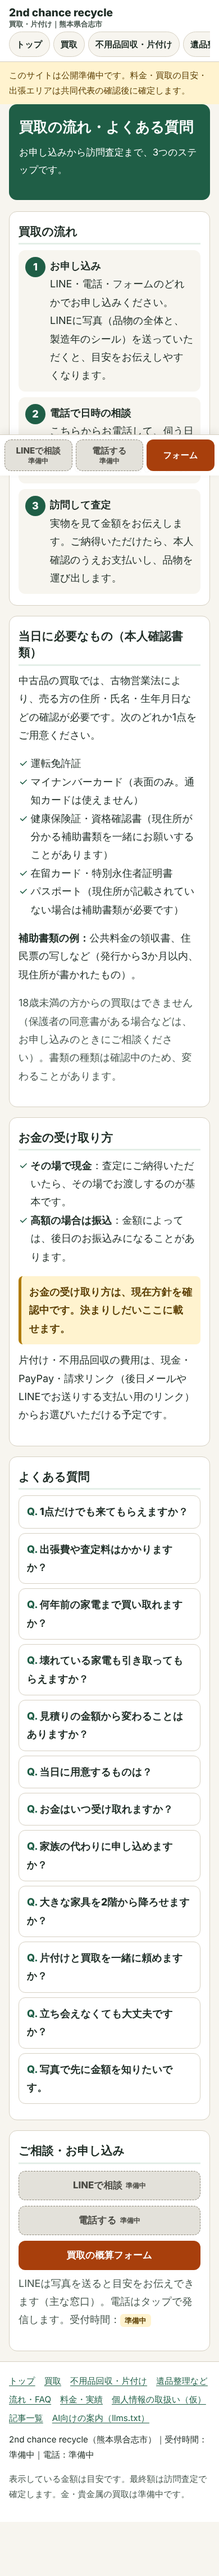
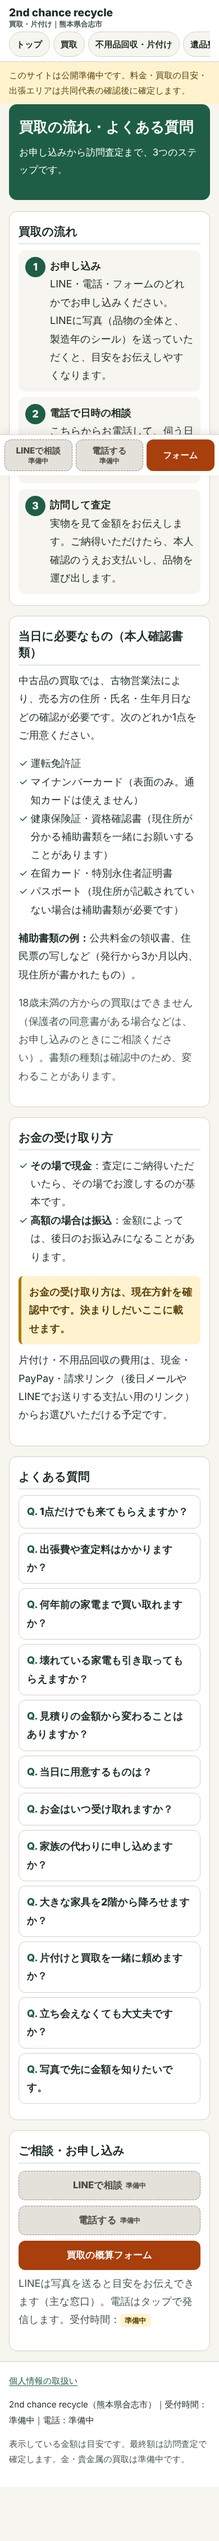
ありがとうエアコンの予約フォームへの送客ボタン（紹介番号は設定1か所）

Changed region(s): [[0.0308, 0.0, 0.9846, 0.9933], [0.8923, 0.6829, 0.9231, 0.714], [0.8923, 0.5898, 0.9231, 0.6208]]

diff --git a/seiri/index.html b/seiri/index.html
@@ -186,7 +186,9 @@
   </ul>
   <h3>このお客様がよく一緒に頼むこと</h3>
   <ul class="related" style="list-style:none;padding:0;margin:0">
-    <li><a href="#" aria-disabled="true"><b>エアコン取外し</b><br><small>準備中</small></a></li>
+<!--build:aircon-item-->
+<li><a href="https://miumiumiu4.github.io/arigatou-booking/" target="_blank" rel="noopener"><b>エアコンクリーニング・取付取外しの予約（ありがとうエアコン）</b><br><small>提携店のページが開きます</small></a></li>
+<!--/build:aircon-item-->
     <li><a href="#" aria-disabled="true"><b>ハウスクリーニング</b><br><small>準備中</small></a></li>
     <li><a href="#" aria-disabled="true"><b>不動産の相談</b><br><small>準備中</small></a></li>
   </ul>
@@ -203,7 +205,9 @@
   </ul>
   <h3>このお客様がよく一緒に頼むこと</h3>
   <ul class="related" style="list-style:none;padding:0;margin:0">
-    <li><a href="#" aria-disabled="true"><b>エアコン取外し</b><br><small>準備中</small></a></li>
+<!--build:aircon-item-->
+<li><a href="https://miumiumiu4.github.io/arigatou-booking/" target="_blank" rel="noopener"><b>エアコンクリーニング・取付取外しの予約（ありがとうエアコン）</b><br><small>提携店のページが開きます</small></a></li>
+<!--/build:aircon-item-->
     <li><a href="#" aria-disabled="true"><b>ハウスクリーニング</b><br><small>準備中</small></a></li>
     <li><a href="#" aria-disabled="true"><b>不動産の相談</b><br><small>準備中</small></a></li>
   </ul>
@@ -220,7 +224,9 @@
   </ul>
   <h3>このお客様がよく一緒に頼むこと</h3>
   <ul class="related" style="list-style:none;padding:0;margin:0">
-    <li><a href="#" aria-disabled="true"><b>エアコン取外し</b><br><small>準備中</small></a></li>
+<!--build:aircon-item-->
+<li><a href="https://miumiumiu4.github.io/arigatou-booking/" target="_blank" rel="noopener"><b>エアコンクリーニング・取付取外しの予約（ありがとうエアコン）</b><br><small>提携店のページが開きます</small></a></li>
+<!--/build:aircon-item-->
     <li><a href="#" aria-disabled="true"><b>ハウスクリーニング</b><br><small>準備中</small></a></li>
     <li><a href="#" aria-disabled="true"><b>不動産の相談</b><br><small>準備中</small></a></li>
   </ul>
@@ -237,7 +243,9 @@
   </ul>
   <h3>このお客様がよく一緒に頼むこと</h3>
   <ul class="related" style="list-style:none;padding:0;margin:0">
-    <li><a href="#" aria-disabled="true"><b>エアコン取外し</b><br><small>準備中</small></a></li>
+<!--build:aircon-item-->
+<li><a href="https://miumiumiu4.github.io/arigatou-booking/" target="_blank" rel="noopener"><b>エアコンクリーニング・取付取外しの予約（ありがとうエアコン）</b><br><small>提携店のページが開きます</small></a></li>
+<!--/build:aircon-item-->
     <li><a href="#" aria-disabled="true"><b>ハウスクリーニング</b><br><small>準備中</small></a></li>
     <li><a href="#" aria-disabled="true"><b>不動産の相談</b><br><small>準備中</small></a></li>
   </ul>

diff --git a/js/config.js b/js/config.js
@@ -2,6 +2,7 @@
 // 電話番号・LINE の URL・GAS の URL はリポジトリに書かない（秘密 grep が止める）。
 // 公開時は GitHub の Settings → Secrets and variables → Actions → Variables に
 //   CFG_SITE_URL / CFG_LINE_URL / CFG_TEL / CFG_GAS_URL / CFG_HOURS / CFG_OPENING_HOURS_SPEC
+//   CFG_AIRCON_REF_PARAM / CFG_AIRCON_REF_CODE
 // を入れると、tools/build.mjs --out が公開用の写しにだけ差し込む（README「設定手順」）。
 export const CONFIG = {
   SITE_NAME: "2nd chance recycle",
@@ -12,5 +13,11 @@ export const CONFIG = {
   AREA_CENTER: "熊本県合志市",
   HOURS: "",                 // 人向けの表示。例の形：9:00〜18:00（日曜定休）
   OPENING_HOURS_SPEC: "",    // 任意。schema.org の形。例の形：Mo-Sa 09:00-18:00
+  // ありがとうエアコン（提携店）の予約フォームへの送客。公開URL（秘密ではない）。
+  // CODE が空のあいだはパラメータ無しの素のURLでリンクする（ボタンは出す）。
+  // 今は紹介ノートの紹介番号を ref で付ける。12月の凍結明けに partner＋会社番号（C0xx）へ差し替え。
+  AIRCON_BOOKING_URL: "https://miumiumiu4.github.io/arigatou-booking/",
+  AIRCON_REF_PARAM: "ref",   // 12月に "partner" へ
+  AIRCON_REF_CODE: "",       // 紹介番号（12月から会社番号）。空なら付けない
   OPENING_NOTE: "このサイトは公開準備中です。料金・買取の目安・出張エリアは共同代表の確認後に確定します。"
 };

diff --git a/kataduke/index.html b/kataduke/index.html
@@ -170,6 +170,15 @@
   <p class="callout-warn">買取見込み額は目安。最終額は訪問査定で確定し、お会計も変わります。</p>
 </section>
 
+<section class="section" aria-labelledby="h-aircon">
+  <h2 id="h-aircon">片付けの後のエアコン</h2>
+  <p>空いたお部屋のエアコンのクリーニングや、引っ越し・解体に合わせた取付・取外しは、提携店の「ありがとうエアコン」で予約できます。</p>
+<!--build:aircon-link-->
+<p><a class="btn btn-ghost" href="https://miumiumiu4.github.io/arigatou-booking/" target="_blank" rel="noopener">エアコンクリーニング・取付取外しの予約（ありがとうエアコン）</a></p>
+<p class="muted" style="margin-top:6px">提携店のページが開きます</p>
+<!--/build:aircon-link-->
+</section>
+
 <section class="section" aria-labelledby="h-form-bc">
   <span id="form-b" class="anchor"></span><span id="form-c" class="anchor"></span>
   <h2 id="h-form-bc">概算フォーム（不用品回収／片付け）</h2>

diff --git a/index.html b/index.html
@@ -239,6 +239,9 @@
     <li><a href="kataduke/"><b>不用品回収・片付け</b><br><small>量の区分・間取り別の目安と概算フォーム</small></a></li>
     <li><a href="seiri/"><b>遺品整理・生前整理</b><br><small>ゴミ屋敷・空き家の片付けも</small></a></li>
     <li><a href="flow/#faq"><b>よくある質問</b><br><small>出張費・年式・当日のことなど</small></a></li>
+<!--build:aircon-card-->
+<li><a href="https://miumiumiu4.github.io/arigatou-booking/" target="_blank" rel="noopener"><b>エアコンのクリーニング・取付取外し</b><br><small>ありがとうエアコンの予約（提携店のページが開きます）</small></a></li>
+<!--/build:aircon-card-->
   </ul>
 </section>
 <section class="section" aria-labelledby="h-posts">

diff --git a/README.md b/README.md
@@ -14,7 +14,8 @@
 | `privacy/` | 個人情報の取扱い（**仮**。オーナー確定前） |
 | `404.html` | 見つからないページ |
 | `css/site.css` | 見た目（モバイル優先・文字大きめ・コントラスト 4.5 以上） |
-| `js/config.js` | 設定 1か所（サイト名・URL・LINE・電話・GAS・営業時間） |
+| `js/config.js` | 設定 1か所（サイト名・URL・LINE・電話・GAS・営業時間・エアコン送客） |
+| `tools/aircon.mjs` | ありがとうエアコンの予約フォームへのリンク（紹介番号のパラメータ）を作る純粋関数 |
 | `js/quote-core.js` | 概算の式（純粋関数）。画面・GAS・AI 向け API が同じ式を使う |
 | `js/form.js` | フォームの画面（入力→確認→送信→受付番号）。フォームが見えたら固定バーの上段に概算パネル |
 | `js/estimate-text.js` | 概算の金額の言い方（純粋関数）。概算の箱と固定バーの概算パネルが同じ文字列を使う |
@@ -62,7 +63,20 @@ npm test               # 全部緑になってからコミット
 | `OPENING_HOURS_SPEC` | 任意。schema.org の形（例の形 `Mo-Sa 09:00-18:00`） | JSON-LD から省略 |
 | `OPENING_NOTE` | 上部のお知らせ帯 | 帯を出さない |
 
-**電話・LINE・GAS の URL はリポジトリに書かない**（`tests/secret-grep.mjs` が止める）。GitHub の Settings → Secrets and variables → Actions → **Variables** に `CFG_SITE_URL`・`CFG_LINE_URL`・`CFG_TEL`・`CFG_GAS_URL`・`CFG_HOURS`・`CFG_OPENING_HOURS_SPEC`・`CFG_OPENING_NOTE` として入れると、公開のときに `node tools/build.mjs --out _site` が公開用の写しにだけ差し込む。
+**電話・LINE・GAS の URL はリポジトリに書かない**（`tests/secret-grep.mjs` が止める）。GitHub の Settings → Secrets and variables → Actions → **Variables** に `CFG_SITE_URL`・`CFG_LINE_URL`・`CFG_TEL`・`CFG_GAS_URL`・`CFG_HOURS`・`CFG_OPENING_HOURS_SPEC`・`CFG_OPENING_NOTE`（エアコン送客は `CFG_AIRCON_REF_PARAM`・`CFG_AIRCON_REF_CODE`）として入れると、公開のときに `node tools/build.mjs --out _site` が公開用の写しにだけ差し込む。
+
+### エアコン送客の設定（ありがとうエアコン）
+`seiri/` の4か所・`kataduke/` の「片付けの後のエアコン」・トップの「6. 申し込む」に、提携店「ありがとうエアコン」の予約フォームへのリンクを出す。リンクは `js/config.js` の3項目から `tools/aircon.mjs` が作り、build が差し込み口（`aircon-item`・`aircon-card`・`aircon-link`）に入れる。ページに href を手で書かない。
+
+| 項目 | 中身 | 空のとき |
+|---|---|---|
+| `AIRCON_BOOKING_URL` | 予約フォームの公開 URL（秘密ではない） | — |
+| `AIRCON_REF_PARAM` | 流入経路のパラメータ名。今は `ref` | — |
+| `AIRCON_REF_CODE` | 紹介番号（12月から会社番号） | パラメータ無しの素の URL でリンク（ボタンは出す） |
+
+1. 紹介番号が来たら `AIRCON_REF_CODE` に入れる（または Actions Variables の `CFG_AIRCON_REF_CODE`）。
+2. `node tools/build.mjs` → `npm test` → push。リンクは `…/arigatou-booking/?ref=<紹介番号>` になる。
+3. **12月の凍結明け**：`AIRCON_REF_PARAM` を `partner`、`AIRCON_REF_CODE` を会社番号（`C0xx`）にして、同じく build → test → push。
 
 ### 2. `data/prices.json`
 - 金額は共同代表が決めたものだけ入れる。`null` の間は画面・料金表・AI 向けが「要相談」と出す。
